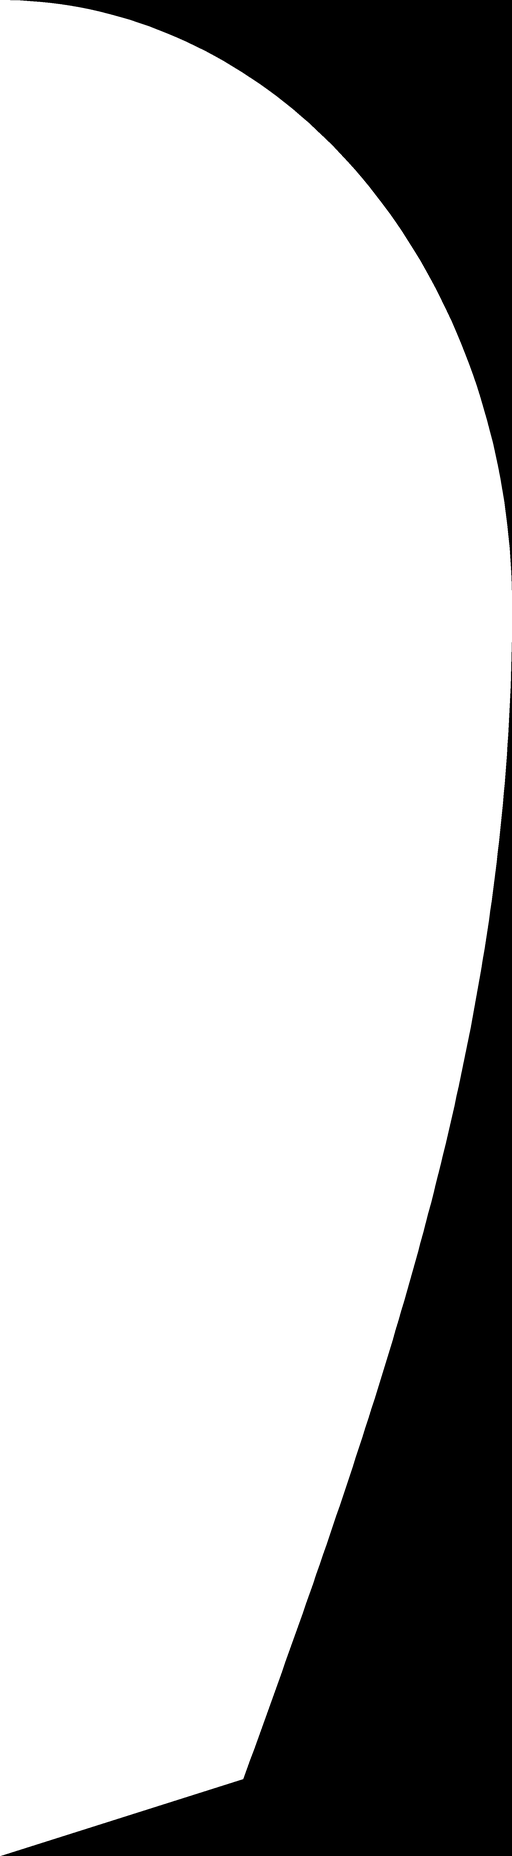
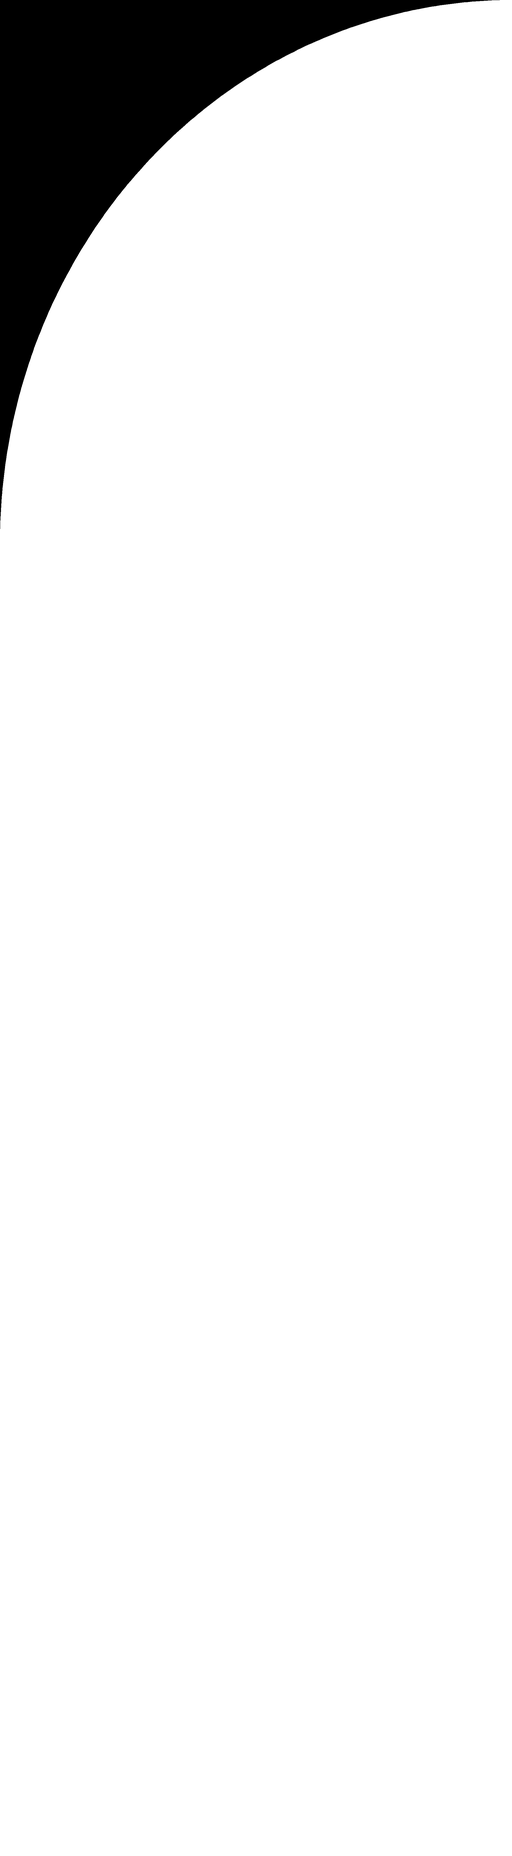
Checkpoint flags: straight-edged feather shape (pole curving into the top corner), user's new designs, template updated

Changed region(s): [[0.0312, 0.375, 1.0, 1.0], [0.0, 0.0, 1.0, 0.3125]]

diff --git a/flag_design/make_template.py b/flag_design/make_template.py
@@ -3,18 +3,12 @@ checkpoint feather flags. Same outline as godot/scripts/world/checkpoint_flags.g
 Run: python make_template.py [out_dir]"""
 import math, sys, os
 from PIL import Image, ImageDraw, ImageFont, ImageFilter
-H_POLE, Y0, CW, ARC_H, BOT_X, BOT_Y, T_ARC = 3.4, 0.5, 0.8, 0.95, 0.38, 0.12, 0.6
+H_POLE, Y0, CW, ARC_H = 3.4, 0.5, 0.8, 0.85
 W_PX, H_PX = 512, 1856   # = CW x (H_POLE - Y0) at 640 px per metre
-def outline(t):
-    yc = H_POLE - ARC_H
-    if t <= T_ARC:
-        u = t / T_ARC
-        return BOT_X + (CW - BOT_X) * math.sin(u * math.pi / 2), (Y0 + BOT_Y) + (yc - Y0 - BOT_Y) * u
-    th = (t - T_ARC) / (1 - T_ARC) * math.pi / 2
-    return CW * math.cos(th), yc + ARC_H * math.sin(th)
 def px(x, y): return (x / CW * W_PX, (1 - (y - Y0) / (H_POLE - Y0)) * H_PX)
 out = sys.argv[1] if len(sys.argv) > 1 else os.path.dirname(os.path.abspath(__file__))
-pts = [px(0, Y0), px(0, H_POLE)] + [px(*outline(1 - k / 200)) for k in range(201)]
+ya = H_POLE - ARC_H
+pts = [px(0, Y0)] + [px(CW * (1 - math.cos(k / 200 * math.pi / 2)), ya + ARC_H * math.sin(k / 200 * math.pi / 2)) for k in range(201)] + [px(CW, Y0)]
 def mask_of(pp):
     m = Image.new("L", (W_PX * 4, H_PX * 4), 0)
     ImageDraw.Draw(m).polygon([(x * 4, y * 4) for x, y in pp], fill=255)
@@ -23,7 +17,7 @@ mask = mask_of(pts); mask.save(os.path.join(out, "flag_mask.png"))
 img = Image.new("RGBA", (W_PX, H_PX), (58, 58, 62, 255)); d = ImageDraw.Draw(img)
 img.paste((255, 255, 255, 255), (0, 0), mask)
 sl = 0.045 / CW * W_PX
-d.rectangle([0, 0, sl, H_PX], fill=(255, 200, 200, 255))
+d.line([(x + sl * 0.5, y) for x, y in pts[:-1]], fill=(255, 200, 200, 255), width=int(sl))
 for m in range(1, 30):   # 10 cm grid
     y = px(0, Y0 + m * 0.1)[1]; d.line([0, y, W_PX, y], fill=(215, 215, 220, 255))
 for m in range(1, 8):
@@ -36,18 +30,17 @@ pad.paste(mask.point(lambda v: 255 if v > 127 else 0), (inset, inset))
 safe = pad.filter(ImageFilter.MinFilter(inset * 2 + 1)).crop((inset, inset, inset + W_PX, inset + H_PX))
 sd = ImageDraw.Draw(safe)
 sd.rectangle([0, 0, sl + inset, H_PX], fill=0)
-sd.rectangle([0, 0, W_PX, px(0, H_POLE - 0.35)[1]], fill=0)
+
 edge = safe.filter(ImageFilter.FIND_EDGES).point(lambda v: 255 if v > 0 else 0).filter(ImageFilter.MaxFilter(3))
 img.paste((30, 160, 80, 255), (0, 0), edge)
-d.line(pts + [pts[0]], fill=(220, 30, 40, 255), width=3)
+d.line([(min(x, W_PX - 2), min(y, H_PX - 2)) for x, y in pts + [pts[0]]], fill=(220, 30, 40, 255), width=3)
 def font(sz, bold=False):
     for n in (["arialbd.ttf"] if bold else ["arial.ttf"]):
         try: return ImageFont.truetype(n, sz)
         except OSError: pass
     return ImageFont.load_default()
-d.text((sl + 6, 120), "POLE SLEEVE (sewn round the pole: hidden)", fill=(190, 40, 40, 255), font=font(15))
+d.text((sl + 6, H_PX - 60), "POLE SLEEVE (left edge + top curve: hidden)", fill=(190, 40, 40, 255), font=font(15))
 d.text((70, 900), "SAFE AREA\ninside the green line:\nlogos + text", fill=(25, 120, 60, 255), font=font(26, True))
 d.text((70, 1010), "red line = the flag's edge\ngrey = cut off\ngrid = 10 cm\n512 x 1856 px = 0.8 x 2.9 m\npole on the LEFT, top = top", fill=(90, 90, 95, 255), font=font(18))
-d.text((sl + 6, H_PX - 34), "bottom corner tied to the pole", fill=(200, 200, 205, 255), font=font(16))
 img.convert("RGB").save(os.path.join(out, "flag_template.png"))
 print("wrote", W_PX, "x", H_PX, "to", out)

diff --git a/godot/HANDOFF.md b/godot/HANDOFF.md
@@ -1213,8 +1213,8 @@ Tests: `BMX_BODY=holdback` (`SPIN` lines), `BMX_BODY=spin360` (`YAW` lines; air-
 - **Checkpoint feather flags (2026-11-27)** (`world/checkpoint_flags.gd` `CheckpointFlags`, `shaders/feather_flag.gdshader`): at every
   5 km distance sign (not the 1 km one) one feather flag on each side of the trail, drawn 5 m tall (`FLAG_SCALE`), W + 1.3 m out (inside the tape;
   spot checked like the signs, `TerrainChunkBuilder._checkpoint_flags` -> `out["flags"]`, one MultiMesh per chunk in
-  `Terrain._finalize_out`). Visual only, no collider. Shape = the classic feather outline (`CheckpointFlags.outline()`:
-  straight pole, a quarter-ellipse arc over the top, a convex free edge, tied-back bottom corner). All motion in the vertex
+  `Terrain._finalize_out`). Visual only, no collider. Shape (user reference, `CheckpointFlags.pole_line()`): the pole runs straight up
+  the cloth's side and bends over in a quarter ellipse to the top of the free edge; free edge and bottom are straight. All motion in the vertex
   shader from `atm_wind`: the flag turns on its pole to stream downwind, ripples run pole -> free edge, bellies with the gusts,
   the free edge pulls in; UV = the flag's box (the print), UV2 = the grid (the motion). Print = `DESIGNS` columns of
   512 x 1856 px drawn upright (pole left) in `assets/textures/flags/checkpoint_flags.png` (BC7 + mipmaps): the user's two
